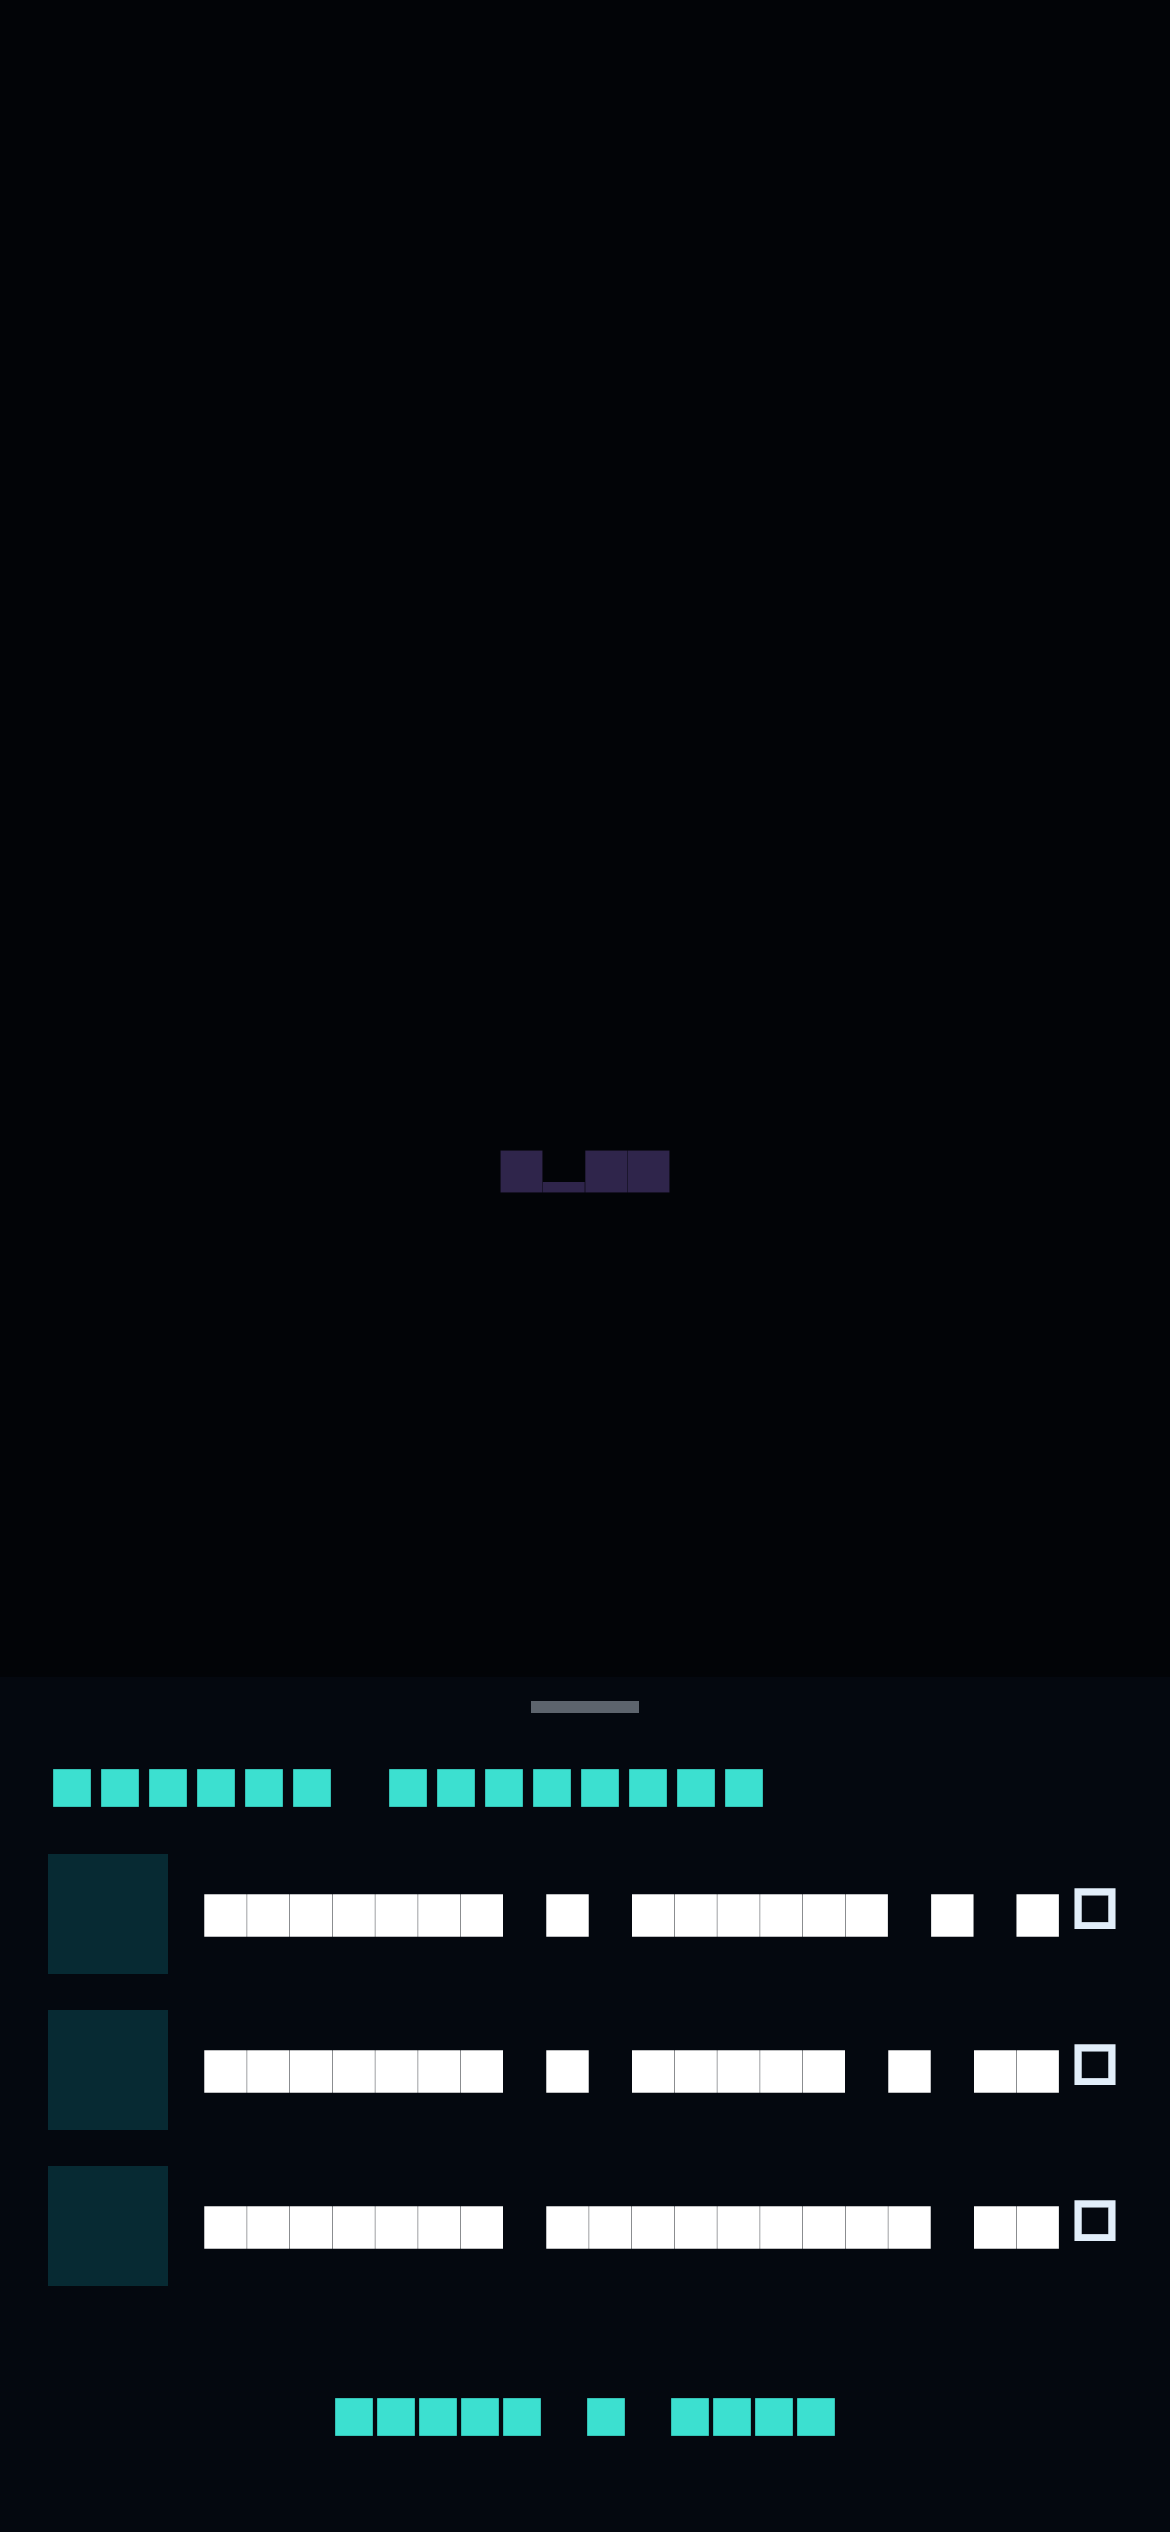
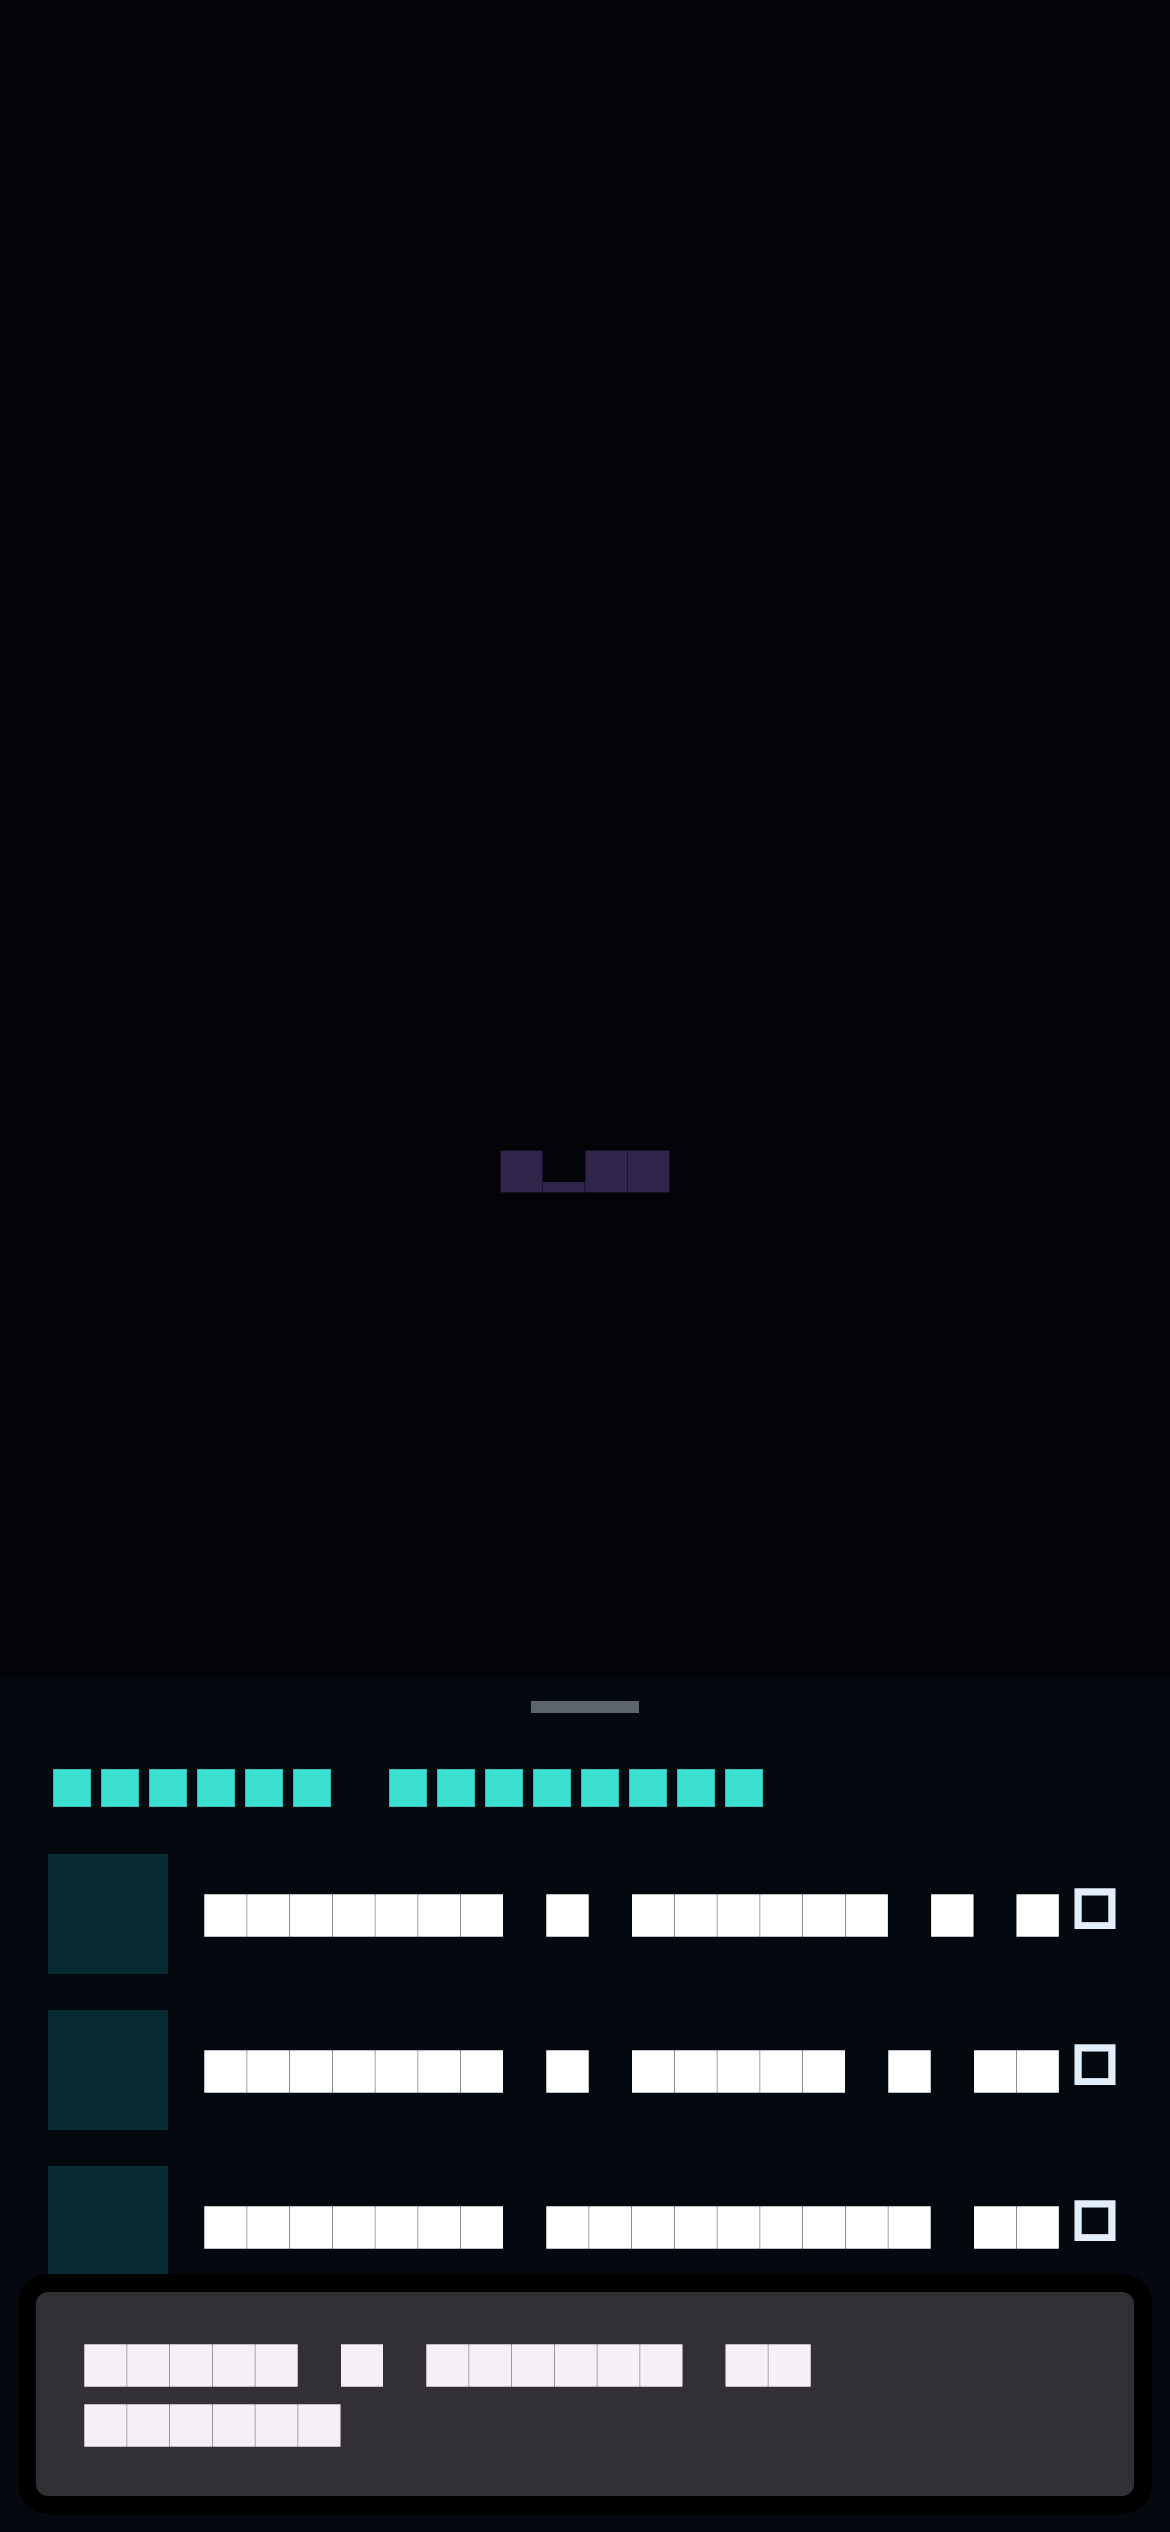
A bar that cannot be buried
ScaffoldMessenger puts its bar in the nearest Scaffold, and a modal sheet is a
route painted over that scaffold — so the bar was drawn behind it. Measured: the
bar at y 697–780, the sheet covering 559–844.

Now there is one entry point and two exits. A normal screen still uses the
messenger, so the bar sits above the mini player exactly as before (697–780,
mini player 780–844). A covered screen — inside a sheet, inside a dialog, or a
screen whose route is no longer current because a sheet opened on top of it —
gets the bar in the root navigator's overlay, which paints last.

The shot test measures both rectangles and hit-tests the centre of the bar: the
thing under the finger at that point is the bar, not the sheet.

Changed region(s): [[0.0308, 0.8736, 0.9846, 0.9984]]

diff --git a/app_src/lib/widgets/toasts.dart b/app_src/lib/widgets/toasts.dart
@@ -1,27 +1,112 @@
 library;
 
+import 'dart:async';
+
 import 'package:flutter/material.dart';
 
 import '../theme/skin.dart';
 
-/// Snackbars, in one place.
+/// Snackbars, raised where they can be seen.
 ///
-/// The shell and the screens had drifted: the shell raised floating bars in the
-/// accent, cleared whatever was already showing, and offered an action; screens
-/// called `ScaffoldMessenger.of(context).showSnackBar` by hand and got the
-/// Material default. Same message, two apps. These three functions are the look,
-/// so a message reads the same wherever it is raised.
-/// A short confirmation. Nothing to act on, so no skin is needed.
+/// A `ScaffoldMessenger` puts its bar inside the nearest `Scaffold`, and a modal
+/// sheet is a route painted *over* that scaffold. Measured in
+/// `test/shots/toast_over_sheet_shot.dart`: a bar raised from inside a sheet sat
+/// at y 697–780 while the sheet covered 559–844 — present in the tree, invisible
+/// on screen, so the sheet looked like it had ignored the tap.
+///
+/// One entry point, two exits:
+///
+///  * On a normal screen the messenger does it, so the bar sits above the mini
+///    player exactly as it always has.
+///  * Inside a popup route — sheet, dialog — the bar goes into the root
+///    navigator's overlay last, which is above every route. Same Material
+///    geometry, drawn by hand.
+///
+/// The look does not change; only the places where a bar could be buried do.
+void _raise(
+  BuildContext context, {
+  required String message,
+  required Duration duration,
+  int? maxLines,
+  String? actionLabel,
+  Color? actionColor,
+  VoidCallback? onAction,
+}) {
+  // Two ways to be buried: raised from inside a sheet or dialog, or raised by
+  // a screen that now has one open on top of it (the shell's callbacks run in
+  // the shell's context even when a sheet called them).
+  final route = ModalRoute.of(context);
+  final covered = route != null && !route.isCurrent;
+  if (route is! PopupRoute && !covered) {
+    final messenger = ScaffoldMessenger.maybeOf(context);
+    if (messenger == null) return;
+    messenger
+      ..clearSnackBars()
+      ..showSnackBar(SnackBar(
+        content: maxLines == null
+            ? Text(message)
+            : Text(message, maxLines: maxLines, overflow: TextOverflow.ellipsis),
+        duration: duration,
+        behavior: SnackBarBehavior.floating,
+        action: actionLabel == null || onAction == null
+            ? null
+            : SnackBarAction(
+                label: actionLabel,
+                textColor: actionColor,
+                onPressed: onAction,
+              ),
+      ));
+    return;
+  }
+  _raiseInOverlay(
+    context,
+    _ToastCard(
+      theme: Theme.of(context),
+      message: message,
+      maxLines: maxLines ?? 2,
+      actionLabel: actionLabel,
+      actionColor: actionColor,
+      onAction: onAction,
+    ),
+    duration,
+  );
+}
+
+OverlayEntry? _current;
+Timer? _timer;
+
+void _dismiss() {
+  _timer?.cancel();
+  _timer = null;
+  _current?.remove();
+  _current = null;
+}
+
+void _raiseInOverlay(BuildContext context, Widget content, Duration duration) {
+  final overlay = Navigator.maybeOf(context, rootNavigator: true)?.overlay;
+  if (overlay == null) return;
+  _dismiss();
+  late final OverlayEntry entry;
+  entry = OverlayEntry(
+    builder: (_) => _ToastLayer(
+      duration: duration,
+      onDone: () {
+        if (identical(_current, entry)) _dismiss();
+      },
+      child: content,
+    ),
+  );
+  _current = entry;
+  overlay.insert(entry);
+}
+
+/// A short confirmation with nothing to act on.
 void toast(BuildContext context, String message) {
-  final messenger = ScaffoldMessenger.maybeOf(context);
-  if (messenger == null) return;
-  messenger
-    ..clearSnackBars()
-    ..showSnackBar(SnackBar(
-      content: Text(message),
-      duration: const Duration(milliseconds: 1400),
-      behavior: SnackBarBehavior.floating,
-    ));
+  _raise(
+    context,
+    message: message,
+    duration: const Duration(milliseconds: 1400),
+  );
 }
 
 void toastUndo(
@@ -30,20 +115,15 @@ void toastUndo(
   String message,
   VoidCallback undo,
 ) {
-  final messenger = ScaffoldMessenger.maybeOf(context);
-  if (messenger == null) return;
-  messenger
-    ..clearSnackBars()
-    ..showSnackBar(SnackBar(
-      content: Text(message, maxLines: 1, overflow: TextOverflow.ellipsis),
-      duration: const Duration(seconds: 4),
-      behavior: SnackBarBehavior.floating,
-      action: SnackBarAction(
-        label: 'UNDO',
-        textColor: skin.accent,
-        onPressed: undo,
-      ),
-    ));
+  _raise(
+    context,
+    message: message,
+    duration: const Duration(seconds: 4),
+    maxLines: 1,
+    actionLabel: 'UNDO',
+    actionColor: skin.accent,
+    onAction: undo,
+  );
 }
 
 void toastAction(
@@ -53,18 +133,137 @@ void toastAction(
   String label,
   VoidCallback action,
 ) {
-  final messenger = ScaffoldMessenger.maybeOf(context);
-  if (messenger == null) return;
-  messenger
-    ..clearSnackBars()
-    ..showSnackBar(SnackBar(
-      content: Text(message, maxLines: 2, overflow: TextOverflow.ellipsis),
-      duration: const Duration(seconds: 8),
-      behavior: SnackBarBehavior.floating,
-      action: SnackBarAction(
-        label: label,
-        textColor: skin.accent,
-        onPressed: action,
+  _raise(
+    context,
+    message: message,
+    duration: const Duration(seconds: 8),
+    maxLines: 2,
+    actionLabel: label,
+    actionColor: skin.accent,
+    onAction: action,
+  );
+}
+
+class _ToastLayer extends StatefulWidget {
+  const _ToastLayer({
+    required this.child,
+    required this.duration,
+    required this.onDone,
+  });
+
+  final Widget child;
+  final Duration duration;
+  final VoidCallback onDone;
+
+  @override
+  State<_ToastLayer> createState() => _ToastLayerState();
+}
+
+class _ToastLayerState extends State<_ToastLayer>
+    with SingleTickerProviderStateMixin {
+  late final AnimationController _fade = AnimationController(
+    vsync: this,
+    duration: const Duration(milliseconds: 160),
+  )..forward();
+
+  late final Timer _life = Timer(widget.duration, () {
+    if (!mounted) return;
+    unawaited(_fade.reverse().whenComplete(widget.onDone));
+  });
+
+  @override
+  void dispose() {
+    _life.cancel();
+    _fade.dispose();
+    super.dispose();
+  }
+
+  @override
+  Widget build(BuildContext context) {
+    return Positioned(
+      left: 0,
+      right: 0,
+      bottom: 0,
+      child: SafeArea(
+        top: false,
+        child: FadeTransition(
+          opacity: _fade,
+          child: Padding(
+            padding: const EdgeInsets.fromLTRB(12, 0, 12, 12),
+            child: Align(
+              alignment: Alignment.bottomCenter,
+              child: widget.child,
+            ),
+          ),
+        ),
       ),
-    ));
+    );
+  }
+}
+
+class _ToastCard extends StatelessWidget {
+  const _ToastCard({
+    required this.theme,
+    required this.message,
+    required this.maxLines,
+    this.actionLabel,
+    this.actionColor,
+    this.onAction,
+  });
+
+  final ThemeData theme;
+  final String message;
+  final int maxLines;
+  final String? actionLabel;
+  final Color? actionColor;
+  final VoidCallback? onAction;
+
+  @override
+  Widget build(BuildContext context) {
+    final bar = theme.snackBarTheme;
+    final background = bar.backgroundColor ?? theme.colorScheme.inverseSurface;
+    final foreground =
+        bar.contentTextStyle?.color ?? theme.colorScheme.onInverseSurface;
+    return Material(
+      key: const ValueKey('sonarar-toast'),
+      color: background,
+      elevation: bar.elevation ?? 6,
+      borderRadius: BorderRadius.circular(4),
+      child: Padding(
+        padding: const EdgeInsets.symmetric(horizontal: 16, vertical: 14),
+        child: Row(
+          mainAxisSize: MainAxisSize.min,
+          children: [
+            Flexible(
+              child: Text(
+                message,
+                maxLines: maxLines,
+                overflow: TextOverflow.ellipsis,
+                style: (bar.contentTextStyle ?? const TextStyle(fontSize: 14))
+                    .copyWith(color: foreground),
+              ),
+            ),
+            if (actionLabel != null && onAction != null) ...[
+              const SizedBox(width: 8),
+              TextButton(
+                onPressed: onAction,
+                style: TextButton.styleFrom(
+                  minimumSize: const Size(0, 36),
+                  padding: const EdgeInsets.symmetric(horizontal: 10),
+                ),
+                child: Text(
+                  actionLabel!,
+                  style: TextStyle(
+                    fontWeight: FontWeight.w800,
+                    letterSpacing: 1.2,
+                    color: actionColor,
+                  ),
+                ),
+              ),
+            ],
+          ],
+        ),
+      ),
+    );
+  }
 }

diff --git a/app_src/test/shots/toast_over_sheet_shot.dart b/app_src/test/shots/toast_over_sheet_shot.dart
@@ -121,12 +121,56 @@ void main() {
     await tester.pump();
     await tester.pump(const Duration(milliseconds: 400));
     // ignore: avoid_print
-    print('SHELL bar=${tester.getRect(find.byType(SnackBar))} '
-        'mini=${tester.getRect(find.byKey(const Key('mini')))}');
+    final barRect = tester.getRect(find.byType(SnackBar));
+    final miniRect = tester.getRect(find.byKey(const Key('mini')));
+    // ignore: avoid_print
+    print('SHELL bar=$barRect mini=$miniRect');
+    expect(barRect.bottom, lessThanOrEqualTo(miniRect.top + 1),
+        reason: 'on a normal screen the bar sits above the mini player, not on it');
     await expectLater(
       find.byType(MaterialApp),
       matchesGoldenFile('../../../.hermes/tmp/toast_shell.png'),
     );
+  });
+
+  testWidgets('a callback on the screen below still reaches the top', (tester) async {
+    await tester.binding.setSurfaceSize(_phone);
+    late BuildContext screenCtx;
+    await tester.pumpWidget(_app(Builder(builder: (context) {
+      screenCtx = context;
+      return Scaffold(
+        backgroundColor: _skin.background,
+        body: Center(
+          child: TextButton(
+            onPressed: () => unawaited(showModalBottomSheet<void>(
+              context: context,
+              backgroundColor: _skin.background,
+              isScrollControlled: true,
+              builder: (ctx) => _sheetBody(),
+            )),
+            child: const Text('open'),
+          ),
+        ),
+        bottomNavigationBar: _miniPlayer(),
+      );
+    })));
+    await tester.tap(find.text('open'));
+    await tester.pumpAndSettle();
+
+    // The shell's own context — the page route, now covered by the sheet.
+    toast(screenCtx, 'Removed "Burn My Dread"');
+    await tester.pump();
+    await tester.pump(const Duration(milliseconds: 400));
+
+    final card = find.byKey(const ValueKey('sonarar-toast'));
+    // ignore: avoid_print
+    print('UNDER sheet=${tester.getRect(find.byType(BottomSheet))} '
+        'bars=${tester.widgetList(card).length} snackbars=${tester.widgetList(find.byType(SnackBar)).length}');
+    expect(tester.widgetList(find.byType(SnackBar)), isEmpty,
+        reason: 'the screen is covered, so its messenger would bury the bar');
+    final hit = tester.hitTestOnBinding(tester.getCenter(card));
+    expect(hit.path.any((e) => identical(e.target, tester.renderObject(card))),
+        isTrue);
   });
 
   testWidgets('sheet case: bar raised from inside a modal sheet', (tester) async {
@@ -158,9 +202,25 @@ void main() {
     await tester.pump();
     await tester.pump(const Duration(milliseconds: 400));
     // ignore: avoid_print
-    print('SHEET sheet=${tester.getRect(find.byType(BottomSheet))} '
-        'bars=${tester.widgetList(find.byType(SnackBar)).length} '
-        'barRect=${tester.widgetList(find.byType(SnackBar)).isEmpty ? 'none' : tester.getRect(find.byType(SnackBar)).toString()}');
+    final sheetRect = tester.getRect(find.byType(BottomSheet));
+    final card = find.byKey(const ValueKey('sonarar-toast'));
+    // ignore: avoid_print
+    print('SHEET sheet=$sheetRect bars=${tester.widgetList(card).length} '
+        'barRect=${tester.widgetList(card).isEmpty ? 'none' : tester.getRect(card).toString()}');
+    expect(tester.widgetList(find.byType(SnackBar)), isEmpty,
+        reason: 'a SnackBar here would be painted behind the sheet and never seen');
+    expect(card, findsOneWidget, reason: 'the bar must exist somewhere visible');
+    expect(tester.getRect(card).top, greaterThan(sheetRect.top),
+        reason: 'it is drawn in the sheet area, and now above it');
+
+    // z-order, not just position: the thing under the finger at the bar's
+    // centre must be the bar. Before the fix the sheet was on top and ate it.
+    final hit = tester.hitTestOnBinding(tester.getCenter(card));
+    expect(
+      hit.path.any((e) => identical(e.target, tester.renderObject(card))),
+      isTrue,
+      reason: 'the sheet is painted over the bar again',
+    );
     await expectLater(
       find.byType(MaterialApp),
       matchesGoldenFile('../../../.hermes/tmp/toast_sheet.png'),
